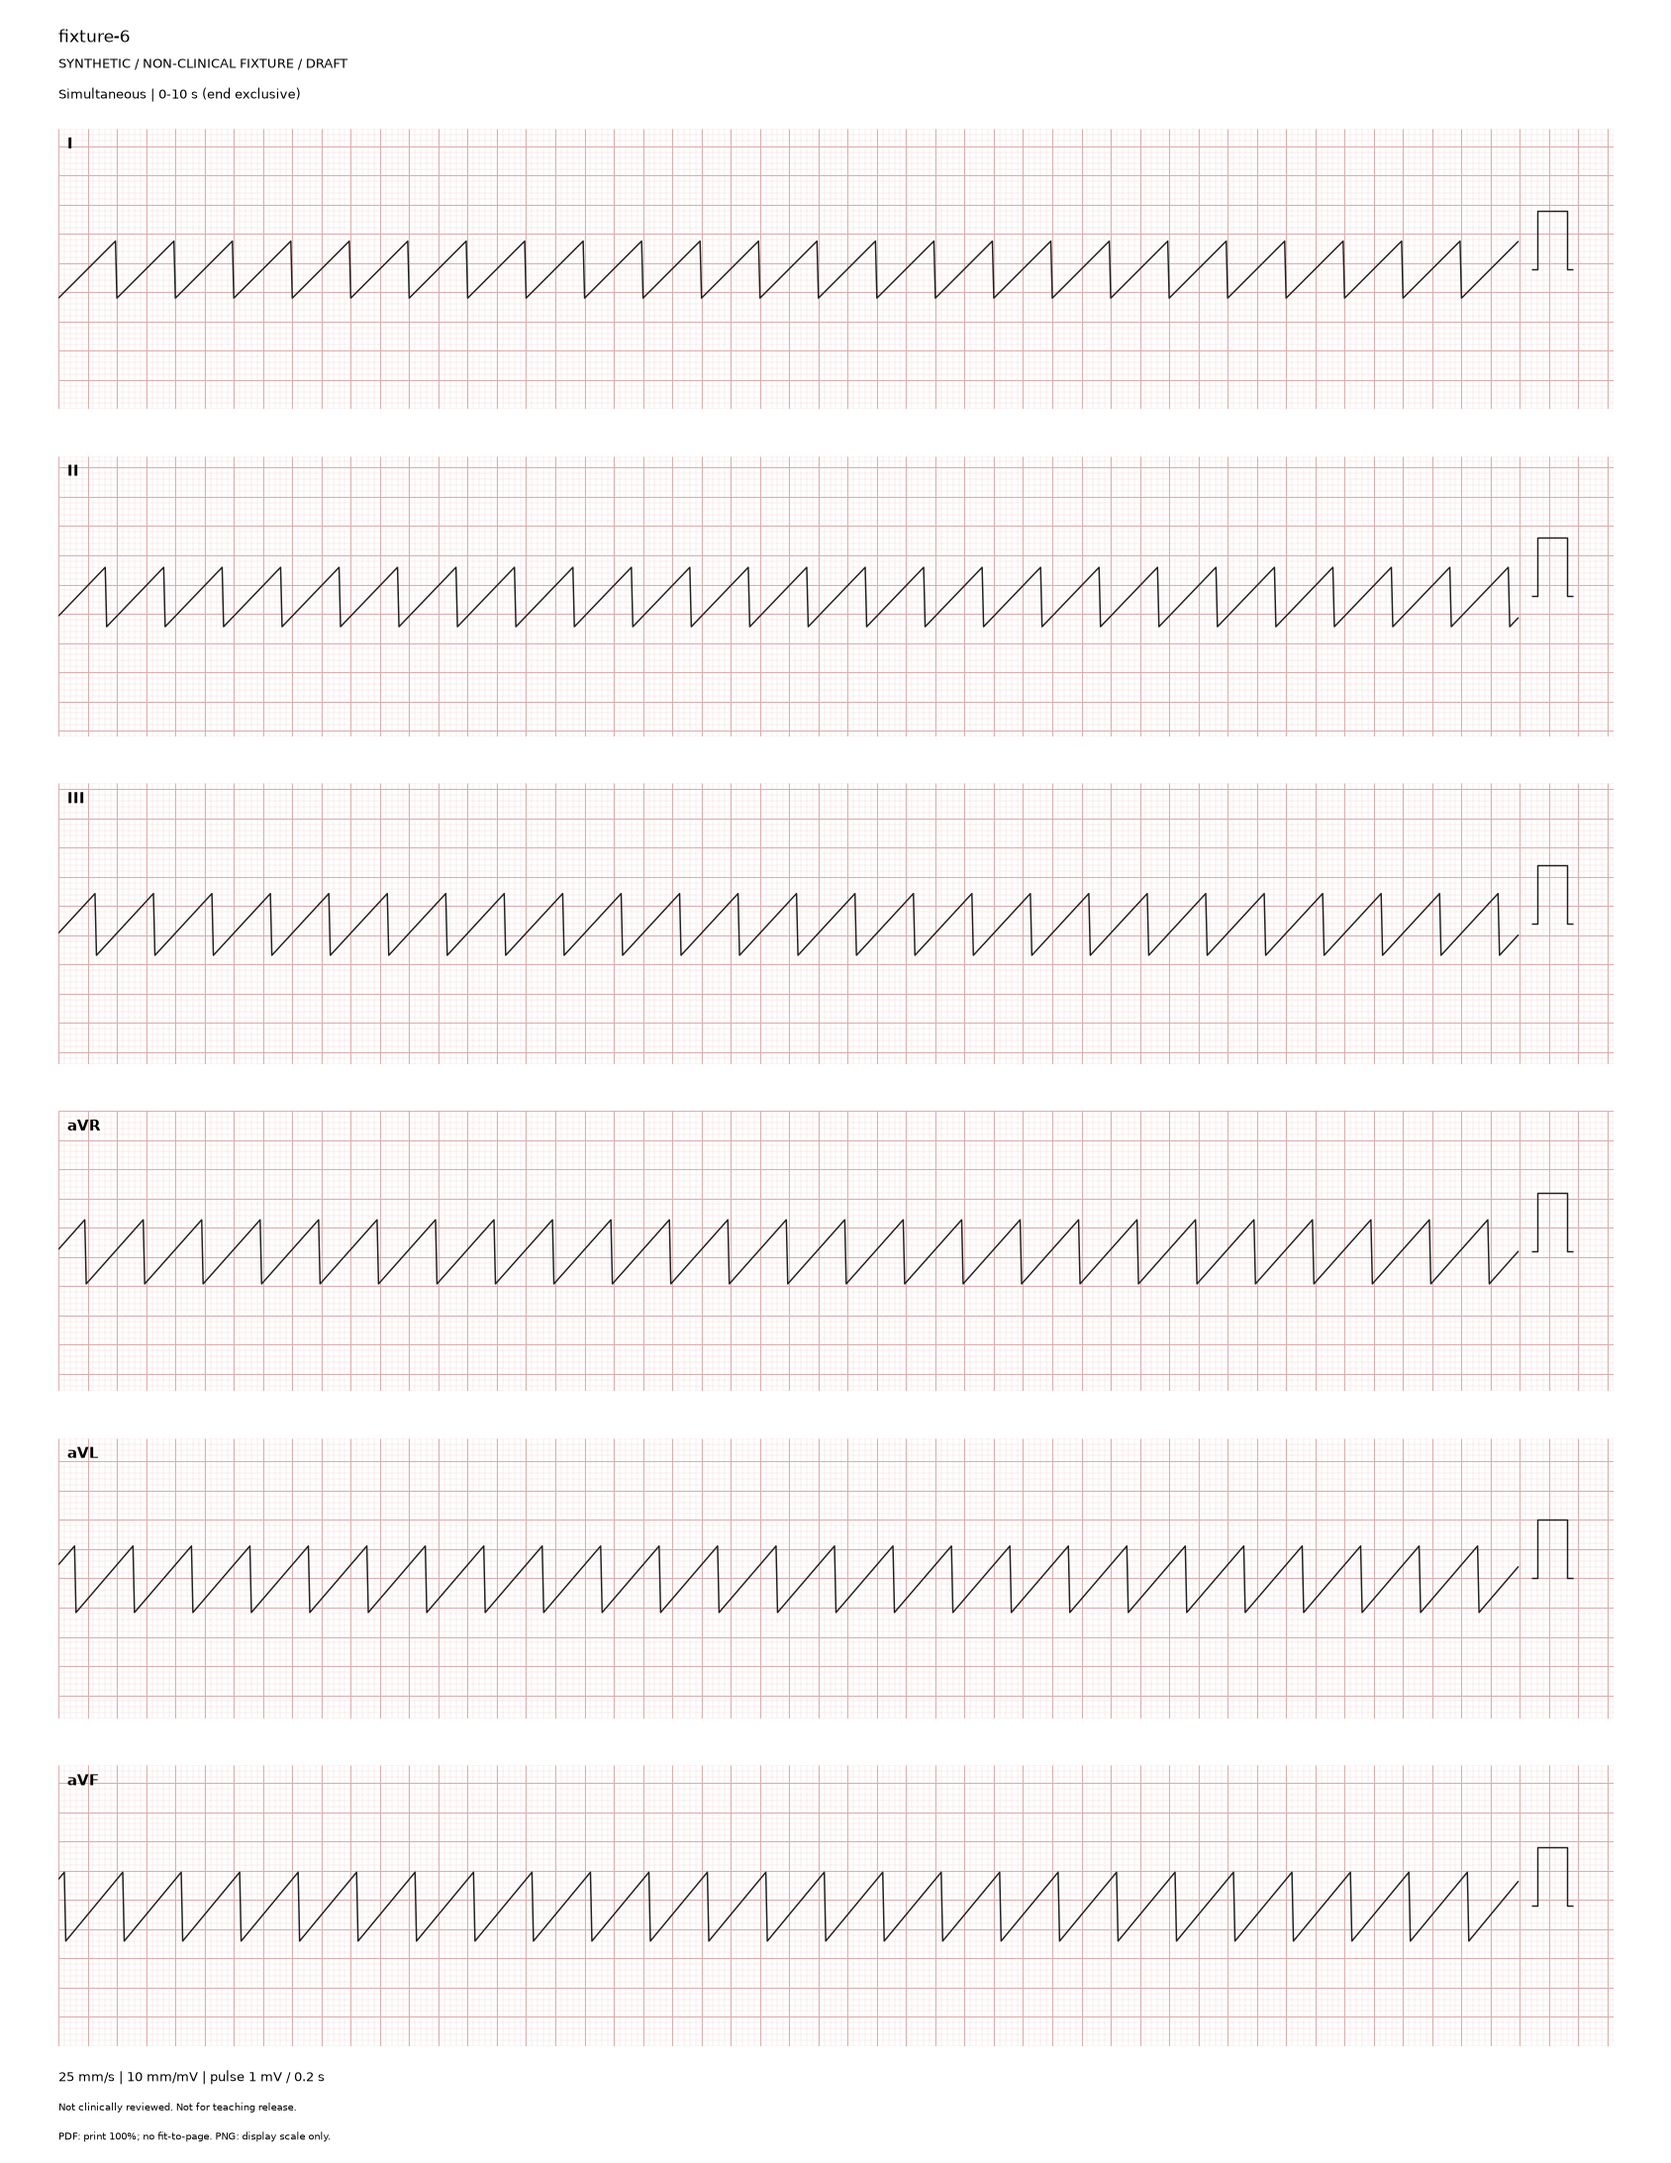
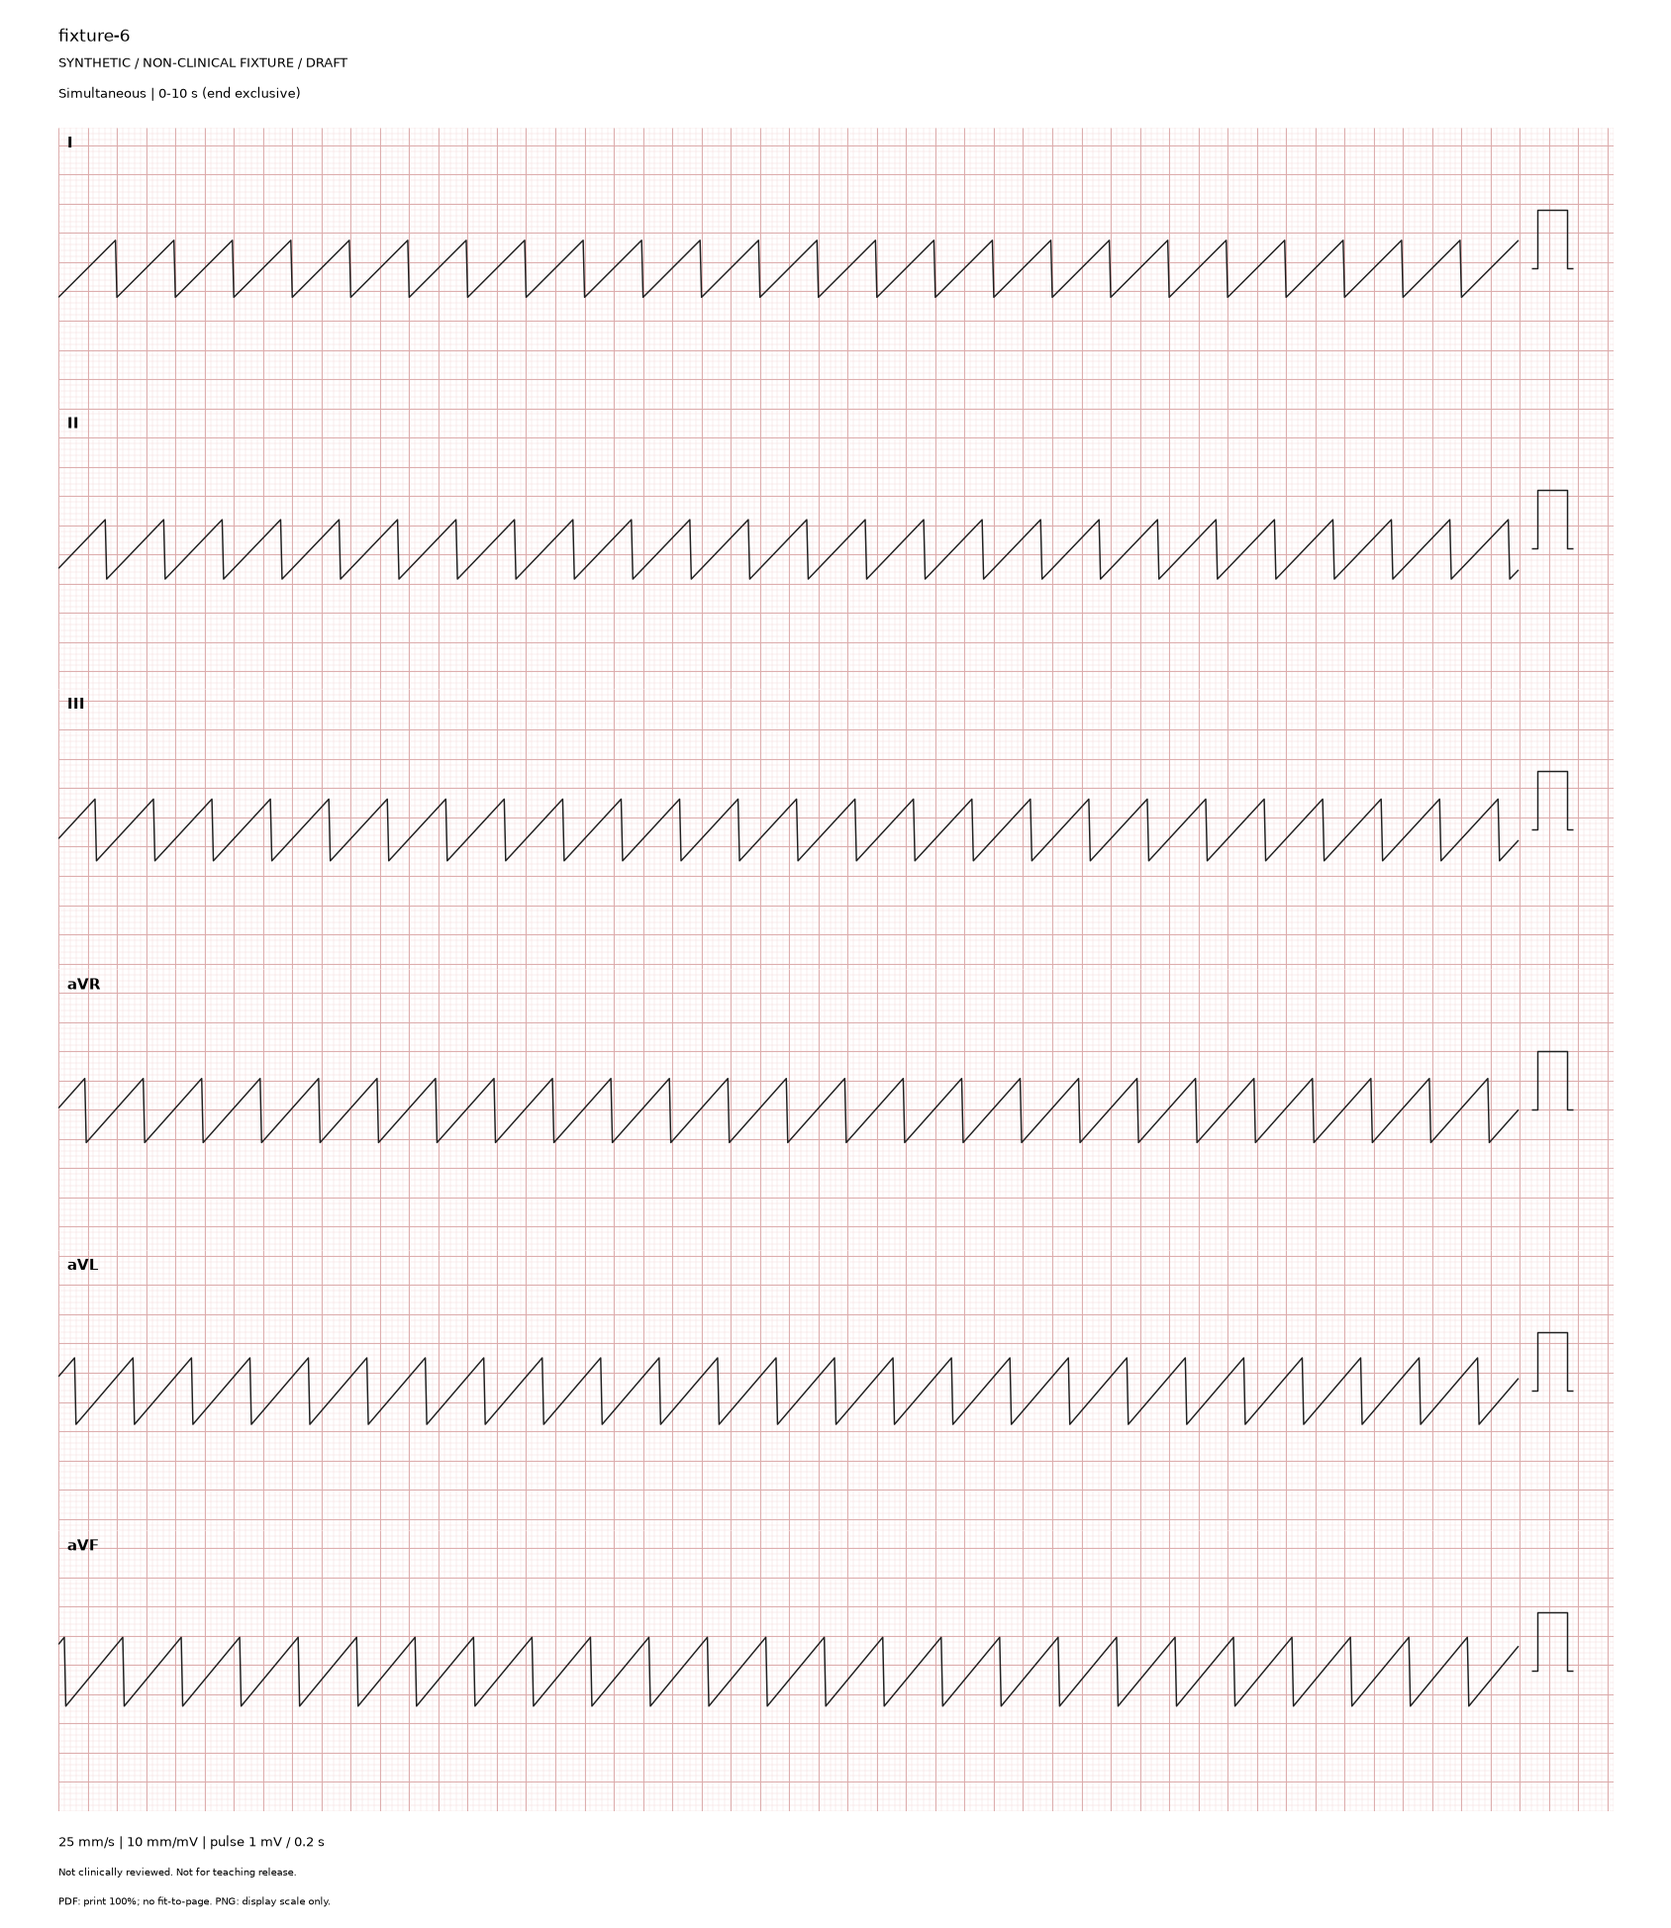
fix: remove gaps between rhythm strip rows

diff --git a/tests/unit/test_rendering.py b/tests/unit/test_rendering.py
@@ -35,7 +35,7 @@ def test_encoded_page_geometry_and_determinism(tmp_path, count, rows, columns, p
     assert box
     # Expected independently: 10-s four-row print (12 leads) or 6-s rhythm rows.
     width = 286 if count == 12 else 186
-    height = 194 if count == 12 else 42 + rows * 48 + (rows - 1) * 8
+    height = 194 if count == 12 else 42 + rows * 48
     assert float(box[1]) == pytest.approx(width * 72 / 25.4, abs=1e-6)
     assert float(box[2]) == pytest.approx(height * 72 / 25.4, abs=1e-6)
     assert b"/CreationDate" not in pdf and b"/ModDate" not in pdf
@@ -228,3 +228,24 @@ def test_short_rhythm_request_creates_no_output(tmp_path) -> None:
     with pytest.raises(ValueError, match="at least 6 seconds"):
         render(RenderRequest.model_validate(payload), destination)
     assert not destination.exists()
+
+
+@pytest.mark.parametrize("count", range(2, 7))
+@pytest.mark.parametrize("duration", [6, 10])
+def test_rhythm_rows_share_continuous_grid(count, duration) -> None:
+    request = make_fixture(count, duration)
+    signal = prepare_signal(request)
+    geometry = calculate_geometry(signal.duration_s, request.preset)
+    fig = build_figure(request, signal, geometry)
+    try:
+        fig.canvas.draw()
+        for above, below in zip(fig.axes, fig.axes[1:], strict=False):
+            assert above.get_position().y0 == pytest.approx(below.get_position().y1)
+        for row, ax in enumerate(fig.axes):
+            y = geometry.panel_bounds_mm(row)[1]
+            for line in ax.collections[1].get_segments():
+                if line[0, 1] == line[1, 1]:
+                    grid_y = y + line[0, 1]
+                    assert grid_y / 5 == pytest.approx(round(grid_y / 5))
+    finally:
+        fig.clear()

diff --git a/src/ecg_strip_generator/rendering/geometry.py b/src/ecg_strip_generator/rendering/geometry.py
@@ -20,7 +20,7 @@ class Geometry:
     margin_mm: float = 10.0
     top_mm: float = 22.0
     bottom_mm: float = 20.0
-    gap_mm: float = 8.0
+    gap_mm: float = 0.0
 
     def panel_bounds_mm(self, index: int) -> tuple[float, float, float, float]:
         x = self.margin_mm
@@ -34,7 +34,7 @@ class Geometry:
 def calculate_geometry(duration_s: float, preset: RenderPreset) -> Geometry:
     twelve = len(preset.displayed_leads) == 12
     rows = 4 if twelve else len(preset.displayed_leads)
-    gap = 0.0 if twelve else 8.0
+    gap = 0.0
     waveform_width = duration_s * preset.paper_speed_mm_s
     cell_width = 16.0 + waveform_width
     cell_height = 2 * preset.amplitude_limit_mv * preset.gain_mm_mv + 8.0

diff --git a/src/ecg_strip_generator/rendering/matplotlib_renderer.py b/src/ecg_strip_generator/rendering/matplotlib_renderer.py
@@ -19,7 +19,7 @@ from ecg_strip_generator.provenance import canonical_json, sha256
 from ecg_strip_generator.rendering.geometry import MM_PER_INCH, Geometry, calculate_geometry
 from ecg_strip_generator.validation import PreparedSignal, display_segments, prepare_signal
 
-RENDERER_VERSION = "3"
+RENDERER_VERSION = "4"
 STYLE = {
     "font.family": ["DejaVu Sans"],
     "font.size": 7,

diff --git a/docs/rendering-and-calibration.md b/docs/rendering-and-calibration.md
@@ -126,7 +126,7 @@ For duration D, speed S, gain G, amplitude limit A and row count R:
 - page height = 42 + R × row height + (R - 1) × row gap mm.
 
 Twelve-lead output uses four rows with zero inter-row gap. One through six leads use
-one through six rows and an 8-mm row gap. Grid lines are globally aligned even when row
+one through six rows with zero inter-row gap (owner correction, 2026-09-06). Grid lines are globally aligned even when row
 height is not a multiple of five millimetres.
 
 Defaults: 25 mm/s, 10 mm/mV, ±2 mV, 150 DPI. The twelve-lead test example
@@ -161,3 +161,6 @@ not promised; the manifest records the environment and renderer version.
 Renderer version 3 adds one- through six-lead rhythm strips with a six-second
 minimum; old short requests must select a longer source window. Version 2 retired the independent twelve-panel layout. Rendering is
 sequential; Matplotlib style contexts are not a concurrent service.
+
+Renderer version 4 removes white gutters between rhythm rows. All multi-row
+layouts share a continuous grid background without changing time or voltage scale.

diff --git a/docs/plans/2026-09-05-ecg-strip-generator-revised-execution-plan.md b/docs/plans/2026-09-05-ecg-strip-generator-revised-execution-plan.md
@@ -226,7 +226,9 @@ ECG-Image-Kit is deferred until the core system is complete. If added later:
 One- through six-lead rhythm strips must use the complete simultaneous source
 window of at least 6 seconds. Common choices are 6 or 10 seconds; the existing
 30-second upper bound remains. Each selected lead has its own continuous row
-and one edge calibration pulse. Never pad, repeat, or infer missing samples or
+and one edge calibration pulse. Owner correction on 2026-09-06: two- through
+six-lead rows must adjoin with a continuous grid and no white inter-row gutters.
+Never pad, repeat, or infer missing samples or
 leads to satisfy this requirement. Non-clinical fixtures default to 6 seconds
 for these layouts and offer 10 seconds explicitly.
 
